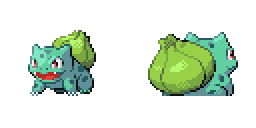
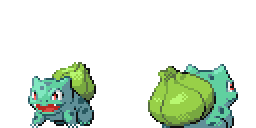
Battle scene ready with pokes, trainers and responsive hud

diff --git a/Battle/Combatant.js b/Battle/Combatant.js
@@ -1,7 +1,6 @@
 class Combatant {
   constructor(config, battle) {
     Object.keys(config).forEach((key) => {
-      console.log(config[key]);
       this[key] = config[key];
     });
 
@@ -11,6 +10,16 @@ class Combatant {
   get hpPercent() {
     const percent = (this.hp / this.maxHp) * 100;
     return Math.max(percent, 0);
+  }
+
+  get xpPercent() {
+    if (this.xp && this.maxXp) {
+      return (this.xp / this.maxXp) * 100;
+    }
+  }
+
+  get isActive() {
+    return this.battle.activeCombatants[this.team] === this.id;
   }
 
   createElement() {
@@ -30,14 +39,25 @@ class Combatant {
             <rect x=0 y=2 width: "0%" height=5 fill="#3ef126" />
         </svg>
         <svg class="Combatant_xp-container">
-        <rect x="0" y="0" width: "0%" height="1" fill="#ffd76a"  />
-            <rect x=0 y=1 width: "0%" height=1 fill="#ffc934" />
+        <rect x="0" y="0" width: "0%" height="5" fill="#ffd76a"  />
         </svg>
         <p class="Combatant_status"></p>
     `;
 
+    this.pokemonElement = document.createElement("div");
+    this.pokemonElement.classList.add("Pokemon");
+    this.pokemonElement.setAttribute("data-team", this.team);
+    this.pokemonElementImg = document.createElement("img");
+    this.pokemonElementImg.setAttribute("src", this.src);
+    this.pokemonElementImg.setAttribute("alt", this.name);
+    this.pokemonElement.appendChild(this.pokemonElementImg);
+
     this.hpFills = this.hudElement.querySelectorAll(
       ".Combatant_life-container > rect"
+    );
+
+    this.xpFills = this.hudElement.querySelectorAll(
+      ".Combatant_xp-container > rect"
     );
   }
 
@@ -46,9 +66,17 @@ class Combatant {
       this[key] = changes[key];
     });
 
+    this.hudElement.setAttribute("data-active", this.isActive);
+    this.pokemonElement.setAttribute("data-active", this.isActive);
+
     this.hpFills.forEach((rect) => {
       rect.style.width = `${this.hpPercent}%`;
     });
+    if (this.xp && this.maxXp) {
+      this.xpFills.forEach((rect) => {
+        rect.style.width = `${this.xpPercent}%`;
+      });
+    }
 
     this.hudElement.querySelector(".Combatant_level").innerText = this.level;
   }
@@ -56,6 +84,7 @@ class Combatant {
   init(container) {
     this.createElement();
     container.appendChild(this.hudElement);
+    container.appendChild(this.pokemonElement);
     this.update();
   }
 }

diff --git a/Battle/Battle.js b/Battle/Battle.js
@@ -5,9 +5,36 @@ class Battle {
         {
           ...window.Pokemons.dragonite,
           team: "player",
-          hp: 50,
+          hp: 30,
           maxHp: 50,
           xp: 0,
+          maxXp: 100,
+          level: 1,
+          status: null,
+        },
+        this
+      ),
+      player2: new Combatant(
+        {
+          ...window.Pokemons.charmander,
+          team: "player",
+          hp: 30,
+          maxHp: 50,
+          xp: 0,
+          maxXp: 100,
+          level: 1,
+          status: null,
+        },
+        this
+      ),
+      player3: new Combatant(
+        {
+          ...window.Pokemons.bulbasaur,
+          team: "player",
+          hp: 30,
+          maxHp: 50,
+          xp: 0,
+          maxXp: 100,
           level: 1,
           status: null,
         },
@@ -19,12 +46,37 @@ class Battle {
           team: "enemy",
           hp: 50,
           maxHp: 50,
-          xp: 0,
           level: 1,
           status: null,
         },
         this
       ),
+      enemy2: new Combatant(
+        {
+          ...window.Pokemons.bulbasaur,
+          team: "enemy",
+          hp: 50,
+          maxHp: 50,
+          level: 1,
+          status: null,
+        },
+        this
+      ),
+      enemy3: new Combatant(
+        {
+          ...window.Pokemons.charmander,
+          team: "enemy",
+          hp: 50,
+          maxHp: 50,
+          level: 1,
+          status: null,
+        },
+        this
+      ),
+    };
+    this.activeCombatants = {
+      player: "player3",
+      enemy: "enemy3",
     };
   }
 

diff --git a/styles/Combatant.css b/styles/Combatant.css
@@ -106,10 +106,10 @@
 
 .Combatant_xp-container {
   position: absolute;
-  left: 20px;
-  top: 8px;
-  width: 26px;
-  height: 2px;
+  left: 70px;
+  top: 76px;
+  width: 128px;
+  height: 4px;
 }
 
 .Combatant[data-team="player"] .Combatant_level {
@@ -142,4 +142,32 @@
 }
 .Combatant_status [data-status="drop"] {
   background: #582a79;
+}
+
+.Pokemon {
+  position: absolute;
+  width: 128px;
+  overflow: hidden;
+}
+
+.Pokemon[data-team="player"] {
+  bottom: 92px;
+  left: 58px;
+}
+
+.Pokemon[data-team="player"] img {
+  transform: translateX(-128px);
+}
+
+.Pokemon[data-team="enemy"] {
+  top: 13px;
+  right: 63px;
+}
+
+.Pokemon[data-active="false"] {
+  opacity: 0;
+}
+
+.Pokemon[data-active="true"] {
+  opacity: 1;
 }
